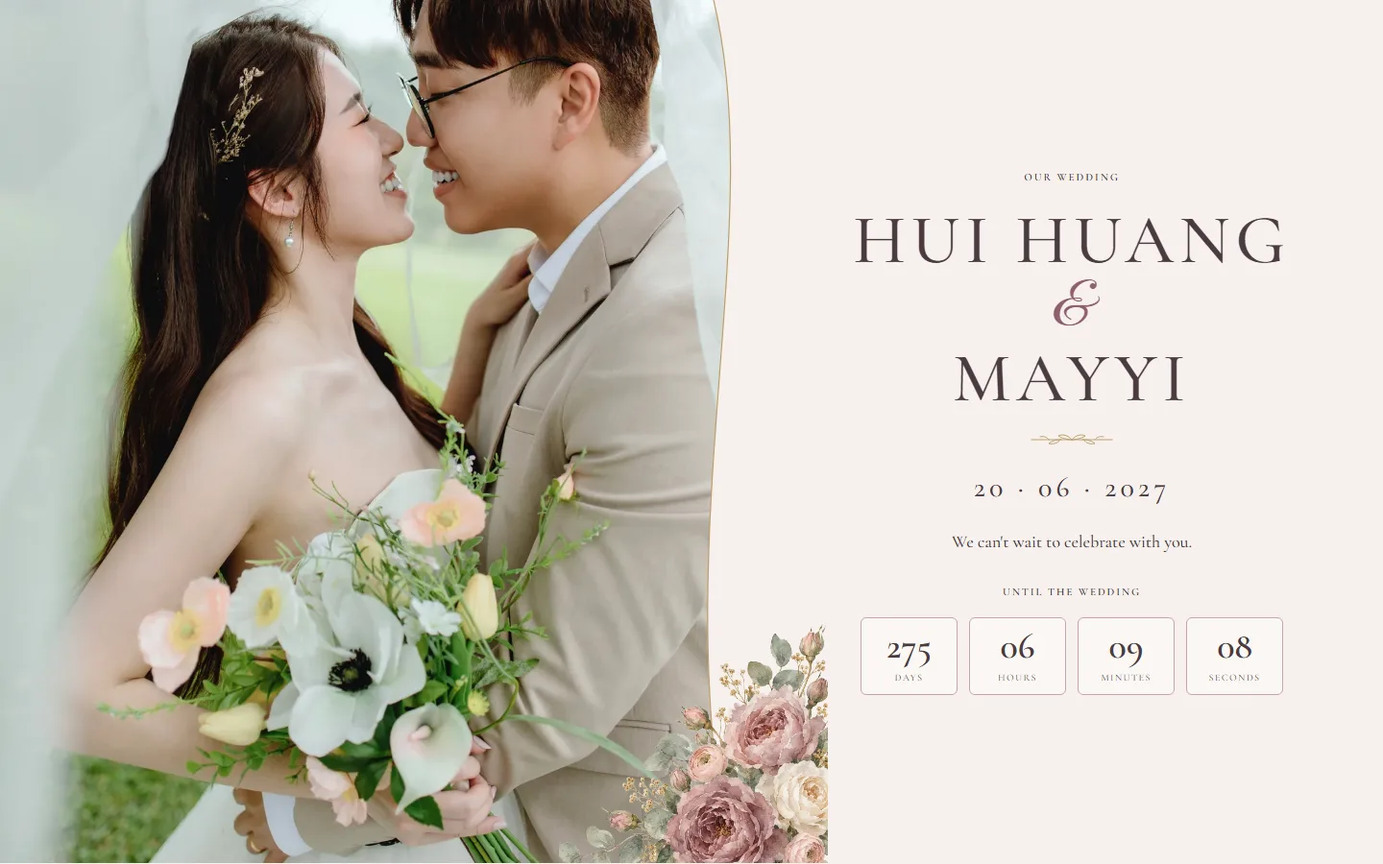
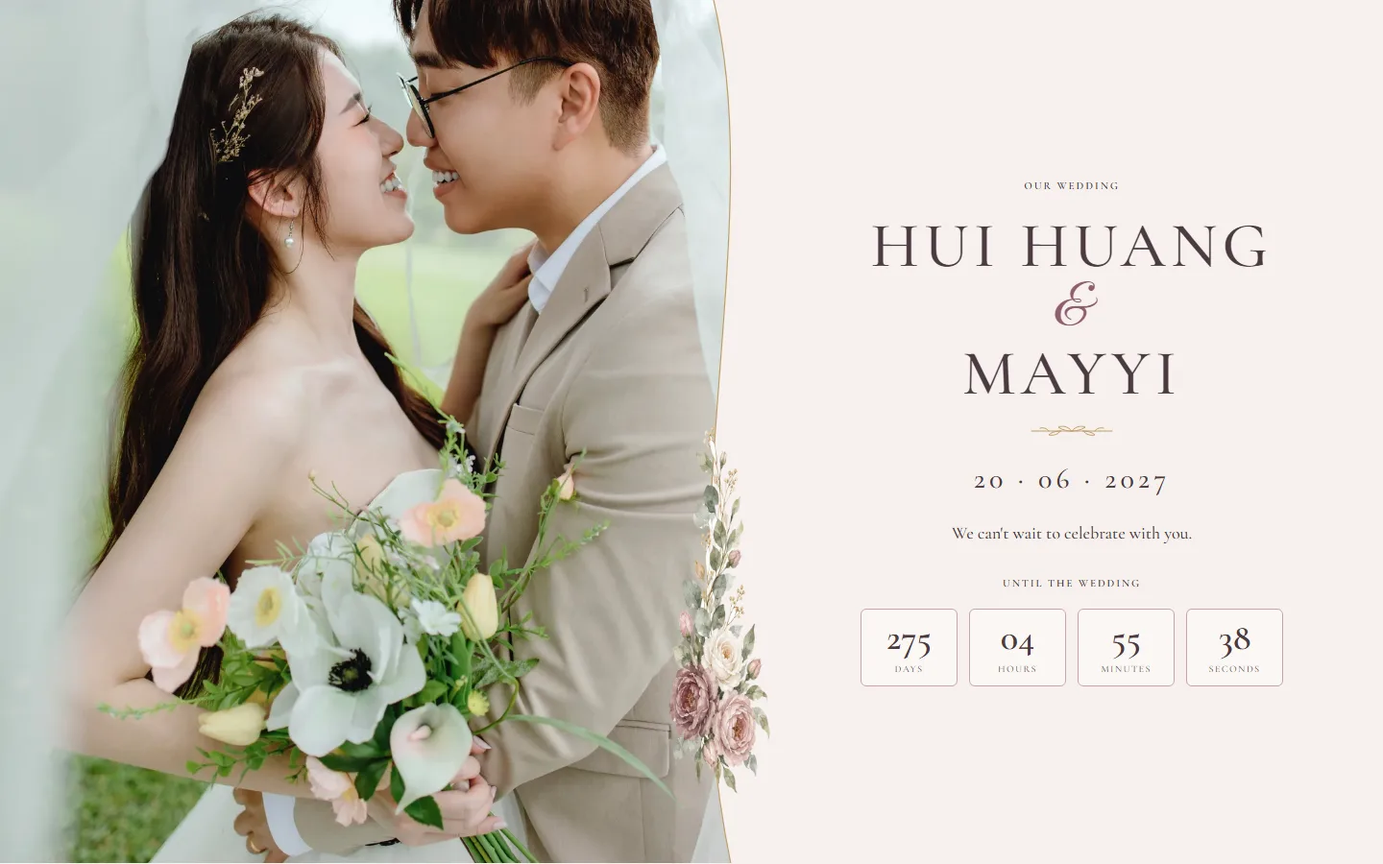
fix(wedding): compose the mauve florals per breakpoint instead of patching them
The first pass reused phone-composed corner clusters, whose hard-cut edges
are meant to sit on a page edge. On iPad and desktop those edges landed
mid-page. The spec now gives every illustration its own breakpoint, CSS
width, output size, ratio and allowed cut edges, and Codex regenerated them
to match.

- ILL-01m (3:4, right edge cut) for the phone/iPad hero, flush with the viewport
- ILL-01d (1:3, no cut edges), a garland standing on the desktop hero curve
- ILL-03m / ILL-03d (8:3 / 4:1, no cut edges), floating invitation garlands
- ILL-04 (4:5, right edge cut), the RSVP cluster, now in its own space above
  the title at every width
- removed the CSS mask feathering and the two old corner assets
- iPad Pro portrait (1024x1366) now gets the iPad column, not the desktop spread
- desktop names scale with the viewport so they no longer break onto three lines

Checked with a pixel-level floral-vs-text overlap test at 390, 600, 820,
1024x1366, 1024x768, 1280x800, 1366x768, 1440x900 and 1920x1080: no overlaps,
no horizontal overflow.

diff --git a/demos/wedding-premium-2.html b/demos/wedding-premium-2.html
@@ -89,11 +89,14 @@ main{overflow-x:clip}
 .seam path{fill:currentColor}
 
 /* ---------- 01 hero ---------- */
-.hero{padding:28px 0 56px;background:var(--ground)}
+.hero{position:relative;padding:28px 0 56px;background:var(--ground)}
 .hero .label.top{text-align:center;margin-bottom:18px}
-.hero-photo{position:relative;max-width:var(--column);margin:0 auto}
-.hero-photo .floral{position:absolute;right:-24px;bottom:-44px;width:170px;pointer-events:none}
-.hero-copy{padding:40px 24px 0}
+/* ILL-01m is cut on its right edge only; below the desktop layout the hero photo is full-bleed,
+   so that edge sits on the viewport edge. */
+.hero-photo{position:relative}
+.floral-m{position:absolute;right:0;bottom:-20px;width:44vw;max-width:300px;height:auto;pointer-events:none}
+.floral-d{display:none}
+.hero-copy{padding:52px 24px 0}
 .countdown{display:grid;grid-template-columns:repeat(4,1fr);gap:8px;width:100%;max-width:320px}
 .countdown div{border:1px solid var(--mauve-soft);border-radius:6px;padding:10px 0 8px;background:var(--panel)}
 .countdown b{display:block;font-family:var(--font-display);font-weight:600;font-size:26px;line-height:1}
@@ -102,7 +105,8 @@ main{overflow-x:clip}
 /* ---------- 02 invitation ---------- */
 .sec.invite{padding-bottom:0}
 .invite .photo{margin:0 -24px 36px}
-.spray{width:100%;max-width:560px;margin:24px auto 0;pointer-events:none}
+.spray{width:100%;max-width:560px;height:auto;margin:24px auto 0;pointer-events:none}
+.invite .spray{margin:32px auto 40px}
 
 /* ---------- 03 programme ---------- */
 .tl{list-style:none;margin:8px 0 0;padding:0;width:100%;max-width:320px;text-align:left}
@@ -138,7 +142,10 @@ main{overflow-x:clip}
 
 /* ---------- 06 RSVP ---------- */
 .rsvp{overflow:clip}
-.rsvp .floral-tr{position:absolute;top:0;right:-40px;width:200px;pointer-events:none}
+/* ILL-04 is cut on its right edge only, which sits on the viewport edge */
+.rsvp .floral-tr{position:absolute;top:16px;right:0;width:150px;height:auto;pointer-events:none}
+/* phone: the cluster sits in its own space above the title instead of over it */
+.sec.rsvp{padding-top:176px}
 .rsvp-photo{display:none}
 .form{display:grid;gap:26px;width:100%;max-width:380px;text-align:left}
 .form[hidden],.done[hidden]{display:none}
@@ -168,7 +175,6 @@ fieldset legend{padding:0;margin:0 auto 10px}
   .names{font-size:56px}
   .date{font-size:28px}
   .script{font-size:42px}
-  .hero-photo .floral{width:230px;right:-30px;bottom:-60px}
   .countdown{max-width:420px;gap:12px}
   .countdown b{font-size:34px}
   .invite .photo,.venue .photo{margin-left:0;margin-right:0}
@@ -176,11 +182,12 @@ fieldset legend{padding:0;margin:0 auto 10px}
   .seam{height:48px}
   .tl{max-width:420px}
   .form{max-width:460px}
-  .rsvp .floral-tr{width:260px}
+  .rsvp .floral-tr{width:200px;top:20px}
+  .sec.rsvp{padding-top:290px}
 }
 
 /* =================== Desktop: >=1024, landing-page spreads =================== */
-@media (min-width:1024px){
+@media (min-width:1024px) and (orientation:landscape){
   body{font-size:18px}
   .wrap{max-width:1200px}
   .sec{padding:112px 64px 120px}
@@ -188,18 +195,20 @@ fieldset legend{padding:0;margin:0 auto 10px}
   .seam{height:64px}
 
   /* hero: full viewport, photo left with the curve down its right edge */
-  .hero{display:grid;grid-template-columns:55% 45%;min-height:100vh;padding:0;align-items:center}
+  .hero{display:grid;grid-template-columns:55% 45%;min-height:min(100vh,960px);padding:0;align-items:center;overflow:clip}
   .hero .label.top{display:none}
-  .hero-photo{max-width:none;margin:0;align-self:stretch;min-height:100vh}
+  .hero-photo{align-self:stretch;min-height:min(100vh,960px)}
   .hero-photo>img.shot{position:absolute;inset:0;width:100%;height:100%;object-fit:cover;object-position:center 30%}
   .hero-photo .curve-h{display:none}
   .curve-v{display:block;position:absolute;top:0;right:-1px;height:100%;width:110px;pointer-events:none}
   .curve-v .fill{fill:var(--ground)}
   .curve-v .line{fill:none;stroke:var(--gold);stroke-width:1.2;vector-effect:non-scaling-stroke}
-  .hero-photo .floral{width:280px;right:-70px;bottom:-30px}
+  /* ILL-01d floats (no cut edges): a garland standing on the curve between photo and copy */
+  .floral-m{display:none}
+  .floral-d{display:block;position:absolute;left:calc(55% - 118px);bottom:40px;width:150px;height:auto;pointer-events:none}
   .hero-copy{padding:80px 64px}
   .hero-copy .label.desk{display:block}
-  .names{font-size:72px}
+  .names{font-size:clamp(48px,4.6vw,72px)}
   .date{font-size:30px}
   .countdown{max-width:440px}
   .countdown b{font-size:38px}
@@ -209,7 +218,7 @@ fieldset legend{padding:0;margin:0 auto 10px}
   .invite .wrap{display:grid;grid-template-columns:1.1fr 1fr;column-gap:80px;row-gap:0;align-items:center}
   .invite .photo{margin:0;border-radius:4px}
   .invite .spray-wrap{grid-column:1 / -1}
-  .invite .spray{max-width:900px;margin-top:48px}
+  .invite .spray{max-width:900px;margin:56px auto 48px}
   .invite .stack{align-items:flex-start;text-align:left}
   .invite .stack>p{max-width:44ch}
 
@@ -233,7 +242,9 @@ fieldset legend{padding:0;margin:0 auto 10px}
   .rsvp .wrap{display:grid;grid-template-columns:1fr 1fr;gap:88px;align-items:start}
   .rsvp-photo{display:block;position:sticky;top:48px}
   .rsvp-photo .curve{height:80px}
-  .rsvp .floral-tr{width:320px;right:-20px}
+  /* the form column reaches the right edge at every desktop width, so the cluster sits above the title */
+  .rsvp .floral-tr{width:min(18vw,260px);top:24px}
+  .sec.rsvp{padding-top:calc(min(22.5vw,325px) + 40px)}
   .form{max-width:480px}
 
   .closing .spray{max-width:900px;margin-top:-60px}
@@ -271,7 +282,7 @@ fieldset legend{padding:0;margin:0 auto 10px}
         <path class="fill" d="M60 0 C118 240 8 560 78 900 L110 900 L110 0 Z"/>
         <path class="line" d="M60 0 C118 240 8 560 78 900"/>
       </svg>
-      <img class="floral" src="../assets/demos/wedding-mauve-garden/floral-corner-br.webp" width="1000" height="1000" alt="">
+      <img class="floral-m" src="../assets/demos/wedding-mauve-garden/hero-cluster-m.webp" width="600" height="800" alt="">
     </div>
 
     <div class="hero-copy">
@@ -290,6 +301,7 @@ fieldset legend{padding:0;margin:0 auto 10px}
         </div>
       </div>
     </div>
+    <img class="floral-d" src="../assets/demos/wedding-mauve-garden/hero-garland-d.webp" width="400" height="1200" alt="">
   </section>
 
   <!-- ============ 02 · INVITATION ============ -->
@@ -312,7 +324,10 @@ fieldset legend{padding:0;margin:0 auto 10px}
         <svg class="heart" aria-hidden="true"><use href="#i-heart"/></svg>
       </div>
       <div class="spray-wrap">
-        <img class="spray" src="../assets/demos/wedding-mauve-garden/floral-spray-bottom.webp" width="1600" height="600" loading="lazy" alt="">
+        <picture>
+          <source media="(min-width:1024px) and (orientation:landscape)" srcset="../assets/demos/wedding-mauve-garden/invite-garland-d.webp" width="1800" height="450">
+          <img class="spray" src="../assets/demos/wedding-mauve-garden/invite-garland-m.webp" width="1120" height="420" loading="lazy" alt="">
+        </picture>
       </div>
     </div>
   </section>
@@ -374,7 +389,7 @@ fieldset legend{padding:0;margin:0 auto 10px}
   <!-- ============ 06 · RSVP ============ -->
   <section class="sec on-panel rsvp">
     <svg class="seam to-ground" viewBox="0 0 480 36" preserveAspectRatio="none" aria-hidden="true"><path d="M0 0 H480 V14 C330 40 160 -4 0 22 Z"/></svg>
-    <img class="floral-tr" src="../assets/demos/wedding-mauve-garden/floral-corner-tr.webp" width="900" height="900" loading="lazy" alt="">
+    <img class="floral-tr" src="../assets/demos/wedding-mauve-garden/rsvp-cluster.webp" width="640" height="800" loading="lazy" alt="">
     <div class="wrap">
       <div class="rsvp-photo curved">
         <img src="../assets/demos/wedding-mauve-garden/pho-04-rsvp.webp" width="1000" height="1400" loading="lazy"

diff --git a/demos/wedding-mauve-garden-wireframe.html b/demos/wedding-mauve-garden-wireframe.html
@@ -111,7 +111,7 @@
 
 <header>
   <h1>Hui Huang &amp; Mayyi — invitation wireframe</h1>
-  <p class="sub">Style <b>mauve-curve-garden</b> (client reference) · <b>7</b> blocks · <b>3</b> assets to generate · slot IDs match DESIGN.md section 3</p>
+  <p class="sub">Style <b>mauve-curve-garden</b> (client reference) · <b>7</b> blocks · <b>6</b> assets, specified per breakpoint · slot IDs match DESIGN.md section 3</p>
 
   <div class="pal">
     <div><i style="background:#F7F0EE"></i>#F7F0EE ground</div>
@@ -139,7 +139,7 @@
     <div class="stack"><div class="bar w30"></div></div>
     <div class="photo tall" style="margin-top:8px"><b>PHO-01</b><span>4:5 · curved bottom edge + gold line</span></div>
     <svg class="tear" viewBox="0 0 300 12" preserveAspectRatio="none" aria-hidden="true"><path d="M0 4 C90 14 200 -2 300 7" fill="none" stroke="currentColor" stroke-width="1.5"/></svg>
-    <div style="display:flex;justify-content:flex-end;margin-top:-18px"><div class="ill" style="width:84px"><b>ILL-01</b><span>bottom-right</span></div></div>
+    <div style="display:flex;justify-content:flex-end;margin-top:-18px"><div class="ill" style="width:84px"><b>ILL-01m</b><span>3:4 · right edge cut</span></div></div>
     <div class="stack" style="margin-top:8px">
       <div class="bar display w70"></div><div class="bar w40"></div><div class="bar w60"></div>
       <div class="cells"><div>days</div><div>hrs</div><div>min</div><div>sec</div></div>
@@ -151,7 +151,7 @@
     <div class="blk-h"><b>02</b> · invitation</div>
     <div class="photo"><b>PHO-02</b><span>3:2 · curved bottom edge + gold line</span></div>
     <div class="stack" style="margin-top:8px"><div class="bar display w40"></div><div class="bar w80"></div><div class="bar w60"></div></div>
-    <div class="ill" style="margin-top:8px"><b>ILL-02</b><span>long low spray along the bottom</span></div>
+    <div class="ill" style="margin-top:8px"><b>ILL-03m</b><span>8:3 floating garland · no cut edges</span></div>
     <div class="blk-h" style="margin:5px 0 0">TXT-06 "Dear friends" · TXT-07 paragraph</div>
   </div>
 
@@ -194,7 +194,7 @@
 
   <div>
     <div class="blk-h"><b>06</b> · RSVP · form</div>
-    <div style="display:flex;justify-content:flex-end"><div class="ill" style="width:84px"><b>ILL-03</b><span>top-right</span></div></div>
+    <div style="display:flex;justify-content:flex-end"><div class="ill" style="width:84px"><b>ILL-04</b><span>4:5 · right edge cut</span></div></div>
     <div class="stack">
       <div class="bar display w40"></div>
       <div class="radio"><i></i>joyfully accepts</div><div class="radio"><i></i>regretfully declines</div>
@@ -209,7 +209,7 @@
   <div>
     <div class="blk-h"><b>07</b> · closing</div>
     <div class="stack"><div class="bar display w70"></div><div class="bar w30"></div></div>
-    <div class="ill" style="margin-top:8px"><b>ILL-02</b><span>reused, mirrored</span></div>
+    <div class="ill" style="margin-top:8px"><b>ILL-02</b><span>8:3 · bottom edge on the page bottom</span></div>
     <div class="blk-h" style="margin:5px 0 0">TXT-18 script thank-you + heart</div>
   </div>
 
@@ -223,7 +223,7 @@
   <div>
     <div class="blk-h"><b>01</b> · hero · full viewport</div>
     <div class="spread">
-      <div class="photo tall"><b>PHO-01</b><span>55% · curve runs down the right edge · ILL-01 on the curve</span></div>
+      <div class="photo tall"><b>PHO-01</b><span>55% · curve runs down the right edge · ILL-01d (1:3 garland, no cut edges) stands on the curve</span></div>
       <div class="stack" style="justify-content:center"><div class="bar display w70"></div><div class="bar w40"></div><div class="cells"><div>d</div><div>h</div><div>m</div><div>s</div></div></div>
     </div>
   </div>
@@ -231,7 +231,7 @@
   <div>
     <div class="blk-h"><b>02</b> · invitation</div>
     <div class="spread"><div class="photo"><b>PHO-02</b></div><div class="stack" style="justify-content:center"><div class="bar display w40"></div><div class="bar w80"></div><div class="bar w60"></div></div></div>
-    <div class="ill" style="margin-top:6px"><b>ILL-02</b><span>full-width spray</span></div>
+    <div class="ill" style="margin-top:6px"><b>ILL-03d</b><span>4:1 floating garland · no cut edges</span></div>
   </div>
 
   <div>

diff --git a/index.html b/index.html
@@ -692,7 +692,7 @@ img{max-width:100%;display:block}a{color:inherit;text-decoration:none}
           </a>
 
           <a href="case-studies/wedding-premium-cinematic.html" class="bento-item reveal reveal-up" data-category="wedding">
-            <img src="assets/portfolio/wedding-premium-2-desktop.webp?v=ddc754a2" alt="Wedding premium e-invitation, mauve garden" loading="lazy" width="1440" height="900">
+            <img src="assets/portfolio/wedding-premium-2-desktop.webp?v=98a1ed80" alt="Wedding premium e-invitation, mauve garden" loading="lazy" width="1440" height="900">
             <div class="bento-overlay">
               <span class="bento-tag" data-lang-en="Wedding Premium" data-lang-cn="婚礼高级版">Wedding Premium</span>
               <span class="bento-label" data-lang-en="Mauve Garden" data-lang-cn="灰紫花园">灰紫花园</span>

diff --git a/demos/wedding-mauve-garden-DESIGN.md b/demos/wedding-mauve-garden-DESIGN.md
@@ -6,7 +6,7 @@
 | Date | 2026-09-18 |
 | Wireframe | `demos/wedding-mauve-garden-wireframe.html` |
 | Replaces | the `pink-peony-garden` draft of `demos/wedding-premium-2.html` |
-| Assets to generate | 3 (`ILL-01` … `ILL-03`) |
+| Assets to generate | 6 (`ILL-01m`, `ILL-01d`, `ILL-02`, `ILL-03m`, `ILL-03d`, `ILL-04`), each specified per breakpoint |
 | Client photo slots | 4 |
 
 ---
@@ -70,17 +70,23 @@ Dress-code swatches: `#E6D2BA` sand, `#D8B4BC` blush, `#9C6B7B` mauve, `#7F8C6B`
 
 ## 2. Blocks
 
-Phone order. The desktop keeps the same order and changes only the layout inside each block.
+Phone order. Every layout keeps the same order and changes only the arrangement inside each block.
 
-| # | Block | Copy slots | Photo | Asset | Desktop layout |
-|---|---|---|---|---|---|
-| 01 | hero | `TXT-01` "Our wedding" label, `TXT-02` names with script "&", `TXT-03` date, `TXT-04` one line, `TXT-05` countdown label | `PHO-01` | `ILL-01` | full viewport: photo left 55% with the curve on its right edge, copy + countdown right |
-| 02 | invitation | `TXT-06` "Dear friends", `TXT-07` paragraph | `PHO-02` | `ILL-02` | photo left, copy right, `ILL-02` along the bottom |
-| 03 | programme | `TXT-08` title, `TXT-09` six rows of time + event | — | inline SVG icons | horizontal six-stop timeline |
-| 04 | venue | `TXT-10` title, `TXT-11` venue + address, `TXT-12` map button | `PHO-03` | — | copy left, photo right |
-| 05 | dress code | `TXT-13` title, `TXT-14` line | — | — | centred, five swatches |
-| 06 | RSVP | `TXT-15` title, `TXT-16` intro, attend radios, name, drinks radios, wishes, `TXT-17` button | `PHO-04` (desktop only) | `ILL-03` | photo left (sticky), form right |
-| 07 | closing | `TXT-18` script thank-you, heart | — | `ILL-02` (reused, mirrored) | centred |
+**Breakpoints.**
+
+- **Phone:** under 768px.
+- **iPad:** 768px and up, plus any width in portrait (so iPad Pro portrait at 1024×1366 stays here).
+- **Desktop:** 1024px and up in landscape.
+
+| # | Block | Copy slots | Photo | Asset (phone / iPad) | Asset (desktop) | Desktop layout |
+|---|---|---|---|---|---|---|
+| 01 | hero | `TXT-01` "Our wedding" label, `TXT-02` names with script "&", `TXT-03` date, `TXT-04` one line, `TXT-05` countdown label | `PHO-01` | `ILL-01m` | `ILL-01d` | photo left 55% with the curve on its right edge, copy + countdown right |
+| 02 | invitation | `TXT-06` "Dear friends", `TXT-07` paragraph | `PHO-02` | `ILL-03m` | `ILL-03d` | photo left, copy right, garland below both |
+| 03 | programme | `TXT-08` title, `TXT-09` six rows of time + event | — | inline SVG icons | inline SVG icons | horizontal six-stop timeline |
+| 04 | venue | `TXT-10` title, `TXT-11` venue + address, `TXT-12` map button | `PHO-03` | — | — | copy left, photo right |
+| 05 | dress code | `TXT-13` title, `TXT-14` line | — | — | — | centred, five swatches |
+| 06 | RSVP | `TXT-15` title, `TXT-16` prompts, attend radios, name, drinks radios, wishes, `TXT-17` button | `PHO-04` (desktop only) | `ILL-04` | `ILL-04` | photo left (sticky), form right |
+| 07 | closing | `TXT-18` script thank-you, heart | — | `ILL-02` | `ILL-02` | centred |
 
 Dropped: contacts (see section 0).
 
@@ -88,36 +94,55 @@ Dropped: contacts (see section 0).
 
 ## 3. Assets
 
-| Slot | What it is | Output px | Ratio | Filename | Ground |
-|---|---|---|---|---|---|
-| `ILL-01` | Watercolour rose cluster entering from the bottom-right corner, overlapping the hero curve | 1000×1000 | 1:1 | `assets/demos/wedding-mauve-garden/floral-corner-br.webp` | transparent |
-| `ILL-02` | Long low watercolour floral spray rising from the bottom edge, dense at both ends | 1600×600 | 8:3 | `assets/demos/wedding-mauve-garden/floral-spray-bottom.webp` | transparent |
-| `ILL-03` | Watercolour rose cluster entering from the top-right corner, for the RSVP panel | 900×900 | 1:1 | `assets/demos/wedding-mauve-garden/floral-corner-tr.webp` | transparent |
-| `PHO-01` | Hero — the veil kiss (ZEN-1852), lawn set | 1200×1500 | 4:5 | `assets/demos/wedding-mauve-garden/pho-01-hero.webp` | — |
-| `PHO-02` | Invitation — cream knitwear at home (ZEN-2298) | 1400×933 | 3:2 | `assets/demos/wedding-mauve-garden/pho-02-home.webp` | — |
-| `PHO-03` | Venue — the wide lawn with hills (ZEN-1674) | 1400×933 | 3:2 | `assets/demos/wedding-mauve-garden/pho-03-venue.webp` | — |
-| `PHO-04` | RSVP side photo, desktop only — black-tie set on the veranda (ZEN-2178), graded down | 1000×1400 | 5:7 | `assets/demos/wedding-mauve-garden/pho-04-rsvp.webp` | — |
+**Cut-edge rule.** An edge may be cut by the frame only if it will sit flush on a real edge: the viewport, the page bottom, or a clipping box. Every other edge must end naturally. Output px is 2× the largest CSS width the slot is shown at.
+
+| Slot | Breakpoints | Where it sits | CSS width | Output px | Ratio | Cut edges | Filename |
+|---|---|---|---|---|---|---|---|
+| `ILL-01m` | phone, iPad | hero photo's bottom-right corner, flush with the viewport's right edge, overlapping the curve and trailing ~20px below the photo (clear of the names) | 44vw, max 300px | 600×800 | 3:4 | **right only** | `assets/demos/wedding-mauve-garden/hero-cluster-m.webp` |
+| `ILL-01d` | desktop | a vertical garland standing on the curve between photo and copy, lower half of the hero, clear of the countdown | 150px | 400×1200 | 1:3 | **none**, floats | `assets/demos/wedding-mauve-garden/hero-garland-d.webp` |
+| `ILL-02` | all | closing block, sitting on the very bottom of the page | 100%, max 560px (phone/iPad) / 900px (desktop) | 1600×600 | 8:3 | **bottom only**, on the page bottom | `assets/demos/wedding-mauve-garden/floral-spray-bottom.webp` |
+| `ILL-03m` | phone, iPad | under the invitation copy, mid-page | 100%, max 560px | 1120×420 | 8:3 | **none**, floats | `assets/demos/wedding-mauve-garden/invite-garland-m.webp` |
+| `ILL-03d` | desktop | full width under the invitation spread, mid-page | 900px | 1800×450 | 4:1 | **none**, floats | `assets/demos/wedding-mauve-garden/invite-garland-d.webp` |
+| `ILL-04` | all | RSVP section top-right, flush with the viewport's right edge, in its own space above the title (the section's top padding grows to fit it) | 150 / 200 / min(18vw, 260px) | 640×800 | 4:5 | **right only** | `assets/demos/wedding-mauve-garden/rsvp-cluster.webp` |
+| `PHO-01` | all | hero — the veil kiss (ZEN-1852), lawn set | full-bleed below desktop; 55% column on desktop | 1200×1500 | 4:5 | — | `assets/demos/wedding-mauve-garden/pho-01-hero.webp` |
+| `PHO-02` | all | invitation — cream knitwear at home (ZEN-2298) | up to 640px | 1400×933 | 3:2 | — | `assets/demos/wedding-mauve-garden/pho-02-home.webp` |
+| `PHO-03` | all | venue — the wide lawn with hills (ZEN-1674) | up to 700px | 1400×933 | 3:2 | — | `assets/demos/wedding-mauve-garden/pho-03-venue.webp` |
+| `PHO-04` | desktop | RSVP side photo — black-tie set on the veranda (ZEN-2178), graded down | 500px | 1000×1400 | 5:7 | — | `assets/demos/wedding-mauve-garden/pho-04-rsvp.webp` |
 
 ---
 
 ## 4. Asset prompts
 
-### `ILL-01` — Rose cluster, bottom-right
+`ILL-02` was generated in the first pass and is kept. The five prompts below are new.
+
+### `ILL-01m` — Hero cluster, phone and iPad (right edge cut only)
 
 ```
-A lush watercolour cluster of garden roses composed so it enters from the bottom-right corner of the frame and is cut off by the bottom and right edges, reaching about halfway up and halfway across, with the upper-left half of the frame left completely empty. Two large open garden roses in dusty mauve #9C6B7B and #C9A3AE, one cream-white rose #F3EBE3, several smaller blush ranunculus and closed rose buds in #D8B4BC, silvery sage eucalyptus leaves in #8E9A7E and #A7B09A, and a few fine dried stems in muted gold #BFA06A. Flowers face different directions and differ in size, the arrangement is loose and asymmetrical with stems trailing outward. Medium: hand-painted loose botanical watercolour on cold-press watercolour paper, soft wet-in-wet bleeds, petals built from overlapping translucent washes, some petal edges left unfinished, faint visible paper tooth, very little granulation. Isolated on a pure white background, no drop shadow. No text, no lettering, no watermark, no gradient background, no plastic highlights, no CG sheen, no perfectly symmetrical flowers, no saturated hot pink, no blue, no purple-violet.
+A tall, lush watercolour cluster of garden roses that enters from the right edge of the frame and is cut off only by that right edge. The top, left and bottom edges must end naturally inside the frame with generous empty space around them — nothing cut off by the top, left or bottom of the frame. Composition: the cluster hugs the right edge, fullest in the middle third of the frame, with sprays of eucalyptus leaves and thin stems trailing upward and a few buds and leaves tapering off softly toward the bottom; the left half of the frame is mostly empty. Two large open garden roses in dusty mauve #9C6B7B and #C9A3AE, one cream-white rose #F3EBE3, small blush ranunculus and closed rose buds in #D8B4BC, silvery sage eucalyptus leaves in #8E9A7E and #A7B09A, a few fine dried stems in muted gold #BFA06A. Loose and asymmetrical, flowers facing different directions. Medium: hand-painted loose botanical watercolour on cold-press watercolour paper, soft wet-in-wet bleeds, petals built from overlapping translucent washes, some petal edges left unfinished, faint visible paper tooth, very little granulation. Isolated on a pure white background, no drop shadow. No text, no lettering, no watermark, no gradient background, no plastic highlights, no CG sheen, no perfectly symmetrical flowers, no saturated hot pink, no blue, no purple-violet.
 ```
 
-### `ILL-02` — Long low floral spray
+### `ILL-01d` — Hero vertical garland, desktop (no cut edges)
 
 ```
-A long, low horizontal watercolour floral arrangement that rises from the bottom edge of a very wide frame, spanning the full width, denser and taller at the left and right ends and thinning to a few low leaves and small buds in the middle, with the top two thirds of the frame left completely empty. Dusty mauve garden roses #9C6B7B, soft mauve-pink roses #C9A3AE, cream-white roses #F3EBE3, blush buds #D8B4BC, silvery sage eucalyptus and olive leaves #8E9A7E and #A7B09A, fine dried gold stems #BFA06A. Loose and asymmetrical, the left end and right end are different arrangements, not mirrored. Medium: hand-painted loose botanical watercolour on cold-press watercolour paper, soft wet-in-wet bleeds, overlapping translucent washes, some edges left unfinished, faint visible paper tooth, very little granulation. Isolated on a pure white background, no drop shadow. No text, no lettering, no watermark, no gradient background, no plastic highlights, no CG sheen, no perfectly symmetrical flowers, no saturated hot pink, no blue, no purple-violet.
+A tall, narrow, free-floating vertical watercolour garland of garden roses, standing upright in the centre of a tall narrow frame and filling it: the garland spans about 85% of the frame height and about 70% of the frame width, with every edge still ending naturally and a thin margin of empty space on all four sides — nothing touches or is cut off by any edge of the frame. From bottom to top: a full base of two large open garden roses in dusty mauve #9C6B7B and #C9A3AE with one cream-white rose #F3EBE3 and blush buds #D8B4BC, then a climbing stem of silvery sage eucalyptus leaves #8E9A7E and #A7B09A with smaller buds, thinning to a few delicate leaves and fine dried gold stems #BFA06A at the top. Slightly asymmetrical, leaning gently, stems curving naturally, not mirrored. Medium: hand-painted loose botanical watercolour on cold-press watercolour paper, soft wet-in-wet bleeds, overlapping translucent washes, some edges left unfinished, faint visible paper tooth, very little granulation. Isolated on a pure white background, no drop shadow. No text, no lettering, no watermark, no gradient background, no plastic highlights, no CG sheen, no perfectly symmetrical flowers, no saturated hot pink, no blue, no purple-violet.
 ```
 
-### `ILL-03` — Rose cluster, top-right
+### `ILL-03m` — Invitation garland, phone and iPad (no cut edges)
 
 ```
-A watercolour cluster of garden roses composed so it hangs in from the top-right corner of the frame and is cut off by the top and right edges, reaching about a third of the way down and a third of the way across, with trailing sage leaves and thin stems drooping further down, and the lower-left two thirds of the frame left completely empty. One large open dusty mauve rose #9C6B7B, one soft mauve-pink rose #C9A3AE, one cream-white rose #F3EBE3, a few blush buds #D8B4BC, silvery sage eucalyptus leaves #8E9A7E and #A7B09A, fine dried gold stems #BFA06A. Loose and asymmetrical, flowers facing different directions. Medium: hand-painted loose botanical watercolour on cold-press watercolour paper, soft wet-in-wet bleeds, overlapping translucent washes, some edges left unfinished, faint visible paper tooth, very little granulation. Isolated on a pure white background, no drop shadow. No text, no lettering, no watermark, no gradient background, no plastic highlights, no CG sheen, no perfectly symmetrical flowers, no saturated hot pink, no blue, no purple-violet.
+A free-floating horizontal watercolour floral garland centred in a wide frame, with every edge ending naturally and clear empty space on all four sides — nothing touches or is cut off by any edge of the frame. Composition: two loose clusters, one on the left third and one on the right third, joined across the middle by a thin trailing stem of eucalyptus leaves and small buds; the left and right clusters are different, not mirrored. Dusty mauve garden roses #9C6B7B, soft mauve-pink roses #C9A3AE, cream-white roses #F3EBE3, blush buds #D8B4BC, silvery sage eucalyptus and olive leaves #8E9A7E and #A7B09A, fine dried gold stems #BFA06A. Loose and asymmetrical. Medium: hand-painted loose botanical watercolour on cold-press watercolour paper, soft wet-in-wet bleeds, overlapping translucent washes, some edges left unfinished, faint visible paper tooth, very little granulation. Isolated on a pure white background, no drop shadow. No text, no lettering, no watermark, no gradient background, no plastic highlights, no CG sheen, no perfectly symmetrical flowers, no saturated hot pink, no blue, no purple-violet.
+```
+
+### `ILL-03d` — Invitation garland, desktop (no cut edges)
+
+```
+A long, slim, free-floating horizontal watercolour floral garland centred in a very wide frame, with every edge ending naturally and clear empty space on all four sides — nothing touches or is cut off by any edge of the frame. Composition: three loose clusters spaced along the length — a fuller one left of centre, a smaller one near the right end, a few buds near the left end — joined by a single trailing stem of eucalyptus leaves, small buds and fine dried stems; the garland spans about 90% of the frame width and about 75% of the frame height; the clusters differ from each other, nothing mirrored. Dusty mauve garden roses #9C6B7B, soft mauve-pink roses #C9A3AE, cream-white roses #F3EBE3, blush buds #D8B4BC, silvery sage eucalyptus and olive leaves #8E9A7E and #A7B09A, fine dried gold stems #BFA06A. Medium: hand-painted loose botanical watercolour on cold-press watercolour paper, soft wet-in-wet bleeds, overlapping translucent washes, some edges left unfinished, faint visible paper tooth, very little granulation. Isolated on a pure white background, no drop shadow. No text, no lettering, no watermark, no gradient background, no plastic highlights, no CG sheen, no perfectly symmetrical flowers, no saturated hot pink, no blue, no purple-violet.
+```
+
+### `ILL-04` — RSVP cluster (right edge cut only)
+
+```
+A watercolour cluster of garden roses that enters from the right edge of the frame and is cut off only by that right edge. The top, left and bottom edges must end naturally inside the frame with empty space around them — nothing cut off by the top, left or bottom of the frame. Composition: one large open dusty mauve rose #9C6B7B and one soft mauve-pink rose #C9A3AE nestled against the right edge in the upper half, one cream-white rose #F3EBE3 below them, a few blush buds #D8B4BC, silvery sage eucalyptus leaves #8E9A7E and #A7B09A and fine dried gold stems #BFA06A reaching up and leftward and trailing down; the left half of the frame is mostly empty. Loose and asymmetrical, flowers facing different directions. Medium: hand-painted loose botanical watercolour on cold-press watercolour paper, soft wet-in-wet bleeds, overlapping translucent washes, some edges left unfinished, faint visible paper tooth, very little granulation. Isolated on a pure white background, no drop shadow. No text, no lettering, no watermark, no gradient background, no plastic highlights, no CG sheen, no perfectly symmetrical flowers, no saturated hot pink, no blue, no purple-violet.
 ```
 
 ---
@@ -126,7 +151,7 @@ A watercolour cluster of garden roses composed so it hangs in from the top-right
 
 - **Fonts:** Cormorant Garamond 500/600 and Great Vibes, Google Fonts, SIL Open Font License.
 - **Script coverage:** names are English. Latin only is fine.
-- **Breakpoints:** phone < 768 single 480px column. iPad portrait 768–1023, single 640px column, larger type. Desktop ≥ 1024, full-width landing-page sections in a 1200px container.
+- **Breakpoints:** phone < 768 single 480px column. iPad (768+, or any width in portrait) single 640px column with a full-bleed hero, larger type. Desktop ≥ 1024 in landscape, full-width landing-page sections in a 1200px container.
 - **Line art (inline SVG, not generated):** the gold heading sprig, six timeline icons (glasses, rings, champagne, plate, music note, sparkle), the heart, the map pin. All 1.5px strokes.
 - **Photography grading:** lawn set, lift shadows slightly and pull greens down about 10% so they sit beside mauve. Home set, warm the whites toward `#FBF7F5`. Black-tie set (`PHO-04`), lift the blacks and cut contrast about 20%.
 - **Never do:** no second solid button, no second divider motif, no saturated pink, no blue, no full-bleed photo without its curve.
@@ -136,5 +161,5 @@ A watercolour cluster of garden roses composed so it hangs in from the top-right
 ## Generating the assets
 
 ```bash
-codex exec --skip-git-repo-check "Read demos/wedding-mauve-garden-DESIGN.md. Generate every ILL asset in section 3 with your image generation tool, using each section 4 prompt verbatim. Transparent background. Save to assets/demos/wedding-mauve-garden/ at the exact filenames and pixel sizes in the table, WebP q82. Do NOT modify any existing file. Print the files created with actual dimensions."
+codex exec --skip-git-repo-check "Read demos/wedding-mauve-garden-DESIGN.md. Generate every ILL asset listed in section 4 with your image generation tool, using each prompt verbatim. Transparent background. Save to assets/demos/wedding-mauve-garden/ at the exact filenames and pixel sizes in the table, WebP q82. Do NOT modify any existing file. Print the files created with actual dimensions."
 ```
